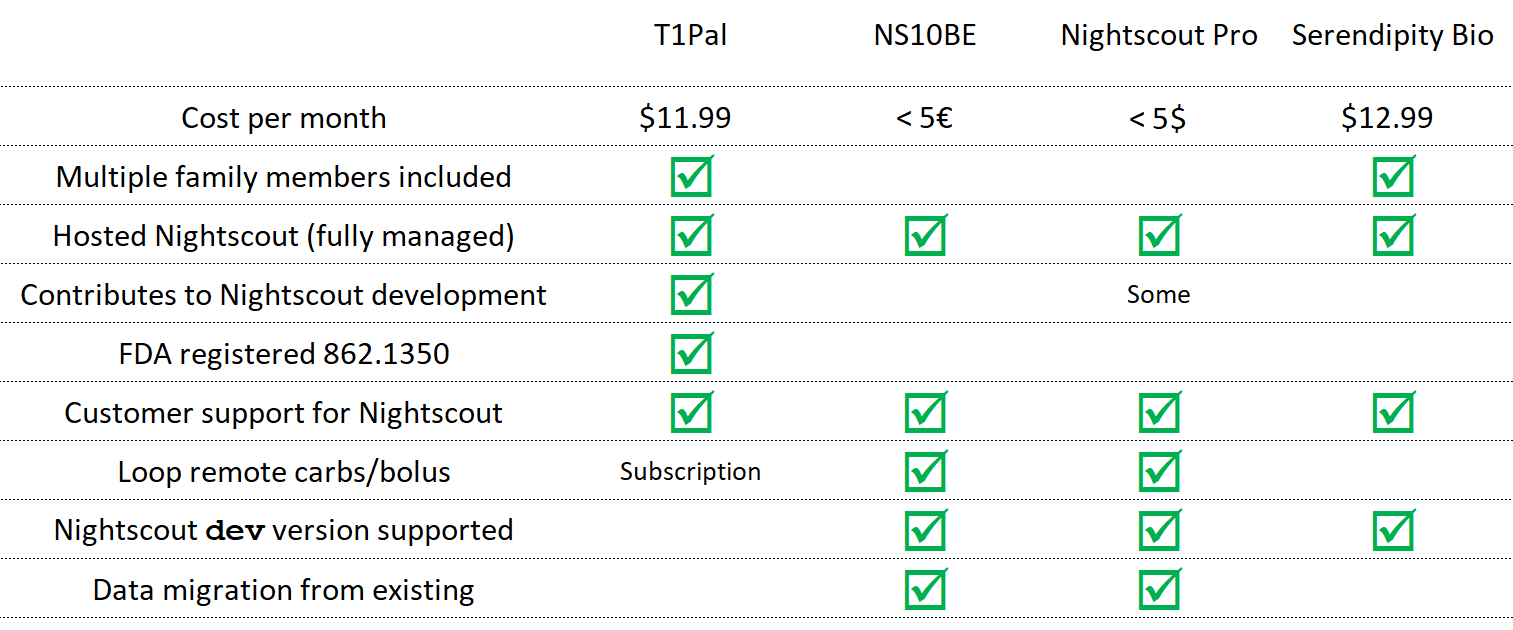
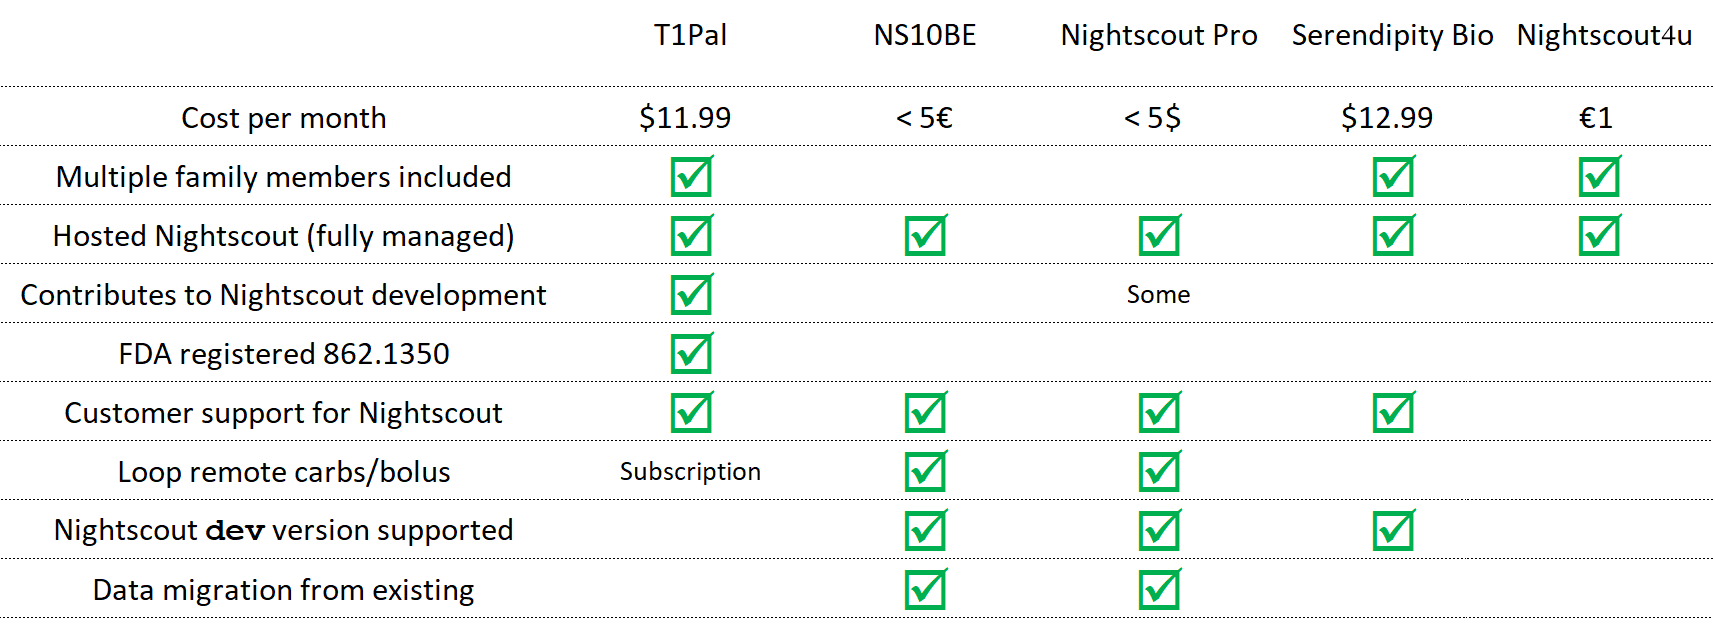
Update Nightscout4u pricing from a free service to €1/instance/month.

diff --git a/docs/nightscout/wizard.md b/docs/nightscout/wizard.md
@@ -43,10 +43,10 @@ function Validate()
 	sel = document.getElementById("COST");
 	switch(sel.selectedIndex)
 	{
-		case 0: dbNort=0; nsHero=0; dbAtlaP=0; dbRail=0; nsGoog=0; nsT1Pal=0; ns10be=0; nsPro=0; nsRail=0; nsSerendipity=0; ns4u=1; break
-		case 1: dbNort=0; nsHero=0; dbAtlaP=0; dbRail=0; nsT1Pal=0; ns10be=0; nsPro=0; nsRail=0; nsSerendipity=0; ns4u=1; break
-		case 2: dbAtlaP=0; nsT1Pal=0; nsSerendipity=0; ns4u=1; break
-		case 3: nsT1Pal=0; nsSerendipity=0; ns4u=1; break
+		case 0: dbNort=0; nsHero=0; dbAtlaP=0; dbRail=0; nsGoog=0; nsT1Pal=0; ns10be=0; nsPro=0; nsRail=0; nsSerendipity=0; ns4u=0; break
+		case 1: dbNort=0; nsHero=0; dbAtlaP=0; dbRail=0; nsT1Pal=0; ns10be=0; nsPro=0; nsRail=0; nsSerendipity=0; ns4u=0; break
+		case 2: dbAtlaP=0; nsT1Pal=0; nsSerendipity=0; ns4u=0; break
+		case 3: nsT1Pal=0; nsSerendipity=0; ns4u=0; break
 		case 4: break
 	}
 	sel = document.getElementById("RELY");
@@ -82,7 +82,7 @@ function Validate()
 	if(ns10be) sNS=sNS+" - NS10BE Hosted Nightscout (from €4.99/month) <br />"
 	if(nsPro) sNS=sNS+" - Nightscout Pro Hosted service (3£/month) <br />"
 	if(nsSerendipity) sNS=sNS+" - Serendipity Bio  Hosted service (12.99$/month) <br />"
-	if(ns4u) sNS=sNS+" - Nightscout4u Hosted service (Free) <br />"
+	if(ns4u) sNS=sNS+" - Nightscout4u Hosted service (€1/instance/month) <br />"
 	if(sNS=="") sNS="Uh... not many choices there, try to change some options and retry."
 	document.getElementById("resultNS").innerHTML = sNS;
 }

diff --git a/docs/index.md b/docs/index.md
@@ -181,7 +181,7 @@ Available globally, a monthly subscription is priced at $12.99 USD per month, pa
 +++
 [Nightscout4u.com](https://www.nightscout4u.com/) started its service in 2023 and offers a simple one-click hosted Nightscout service solution. It is possible to create and use multiple Nightscout instances with one account.
 
-As the service does not cover any guarantee in a production environment, it is completely **free of charge** and suitable for beginners to make their first steps and get used to Nightscout.
+The service is suitable for beginners to make their first steps and get used to Nightscout for only one Euro per instance and month.
 
 Check out the easy way of a [hosted Nightscout solution](https://www.nightscout4u.com/).
 ```
